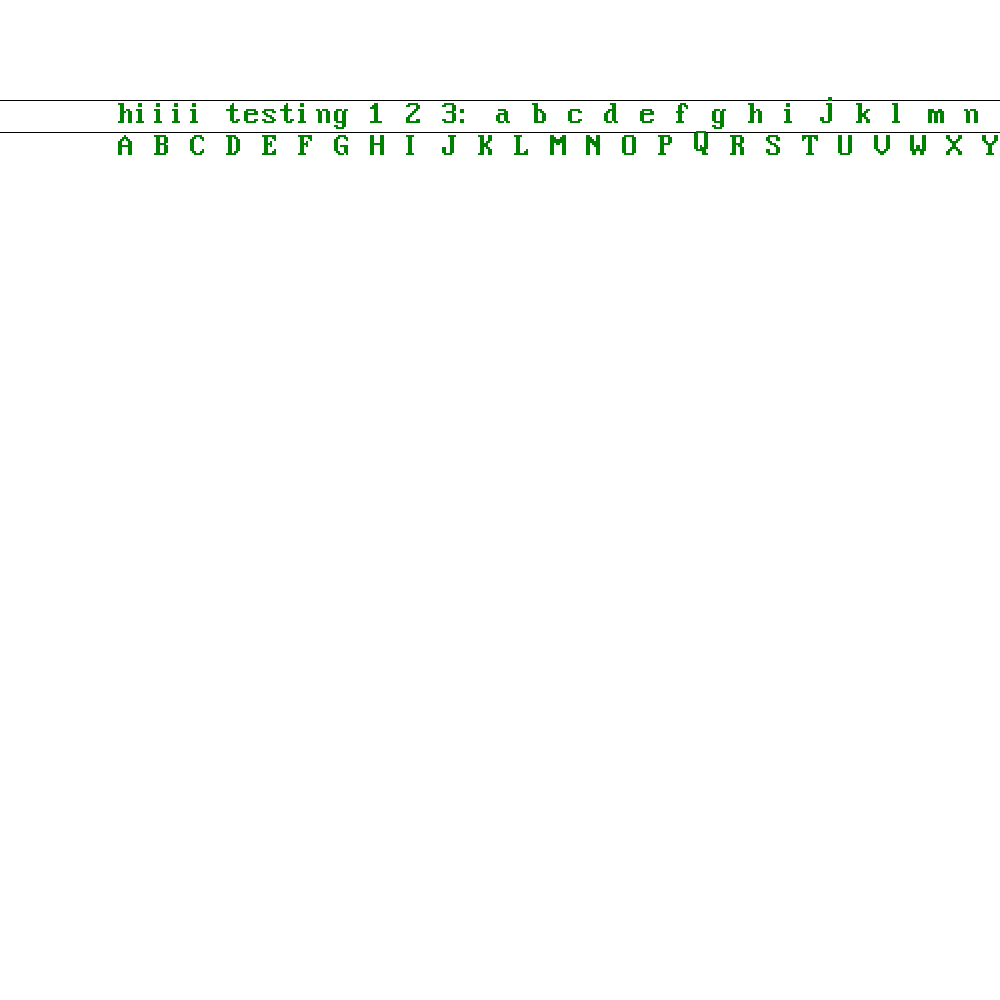
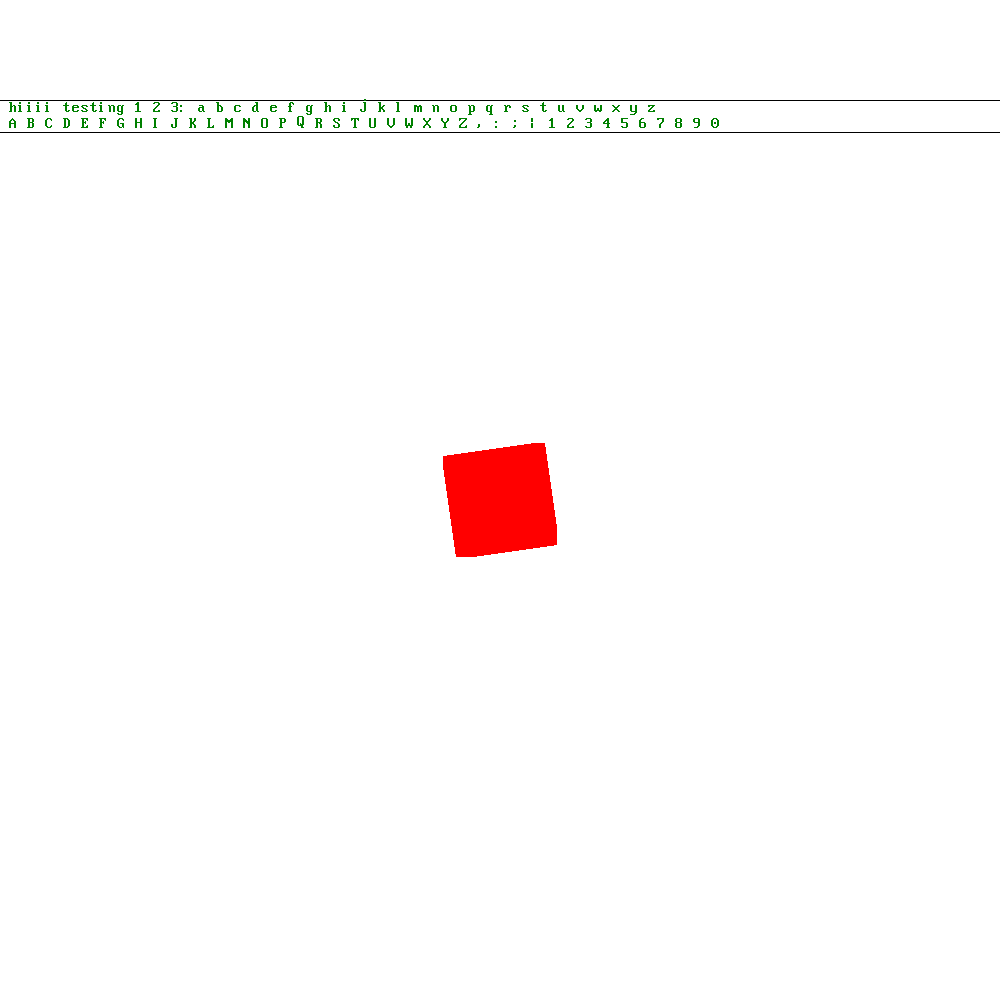
g

diff --git a/src/utils.rs b/src/utils.rs
@@ -465,7 +465,19 @@ impl Boundary {
         }
         for y in min_y..=max_y {
             for x in min_x..=max_x {
-                if self.check_collision_point(x, y) {
+                let mut hit = false;
+                'lp: for dy in -2..=2i32 {
+                    for dx in -2..=2i32 {
+                        if dx.abs() > 1 && dy.abs() > 1 {
+                            continue;
+                        }
+                        if self.check_collision_point(x + dx, y + dy) {
+                            hit = true;
+                            break 'lp;
+                        }
+                    }
+                }
+                if hit {
                     image.draw_pixel(x, y, color)
                 }
             }
@@ -548,5 +560,51 @@ pub trait DrawCPUText {
 impl DrawCPUText for raylib::prelude::Image {
     fn draw_text_cpu(&mut self, text: &str, x: i32, y: i32, height: i32, color: Color) {
         draw_text_to_image(self, text, x, y, height, color);
+    }
+}
+
+//https://stackoverflow.com/questions/2824478/shortest-distance-between-two-line-segments
+pub fn distance_between_line_segments(
+    start1: Vector2,
+    end1: Vector2,
+    start2: Vector2,
+    end2: Vector2,
+) {
+    use raylib::prelude::Vector3;
+    let a0 = Vector3::new(start1.x, start1.y, 0.0);
+    let b0 = Vector3::new(start2.x, start2.y, 0.0);
+    let a1 = Vector3::new(end1.x, end1.y, 0.0);
+    let b1 = Vector3::new(end2.x, end2.y, 0.0);
+    let a = a1 - a0;
+    let b = b1 - b0;
+    let mag_a = a.length();
+    let mag_b = b.length();
+    let _a = a / mag_a;
+    let _b = b / mag_b;
+    let cross = _a.cross(_b);
+    let denom = {
+        let l = cross.length();
+        l * l
+    };
+    if denom.abs() < 0.01 {
+        let d0 = _a.dot(b0 - a0);
+        let d1 = _a.dot(b1 - a0);
+        if d0 <= 0. && 0. >= d1 {
+            if d0.abs() < d1.abs() {
+                //  return (a0 - b0).length();
+            } else {
+                // return (a0 - b1).length();
+            }
+        } else if d0 >= mag_a && d1 <= mag_a {
+            if d0.abs() < d1.abs() {
+                //return (a1-b0).length();
+            } else {
+                //return (a1-b1).length();
+            }
+        } else {
+            //   return ((_a * d0) + a0 - b0).length();
+        }
+    } else {
+        //     t = (b0 - a0);
     }
 }

diff --git a/src/main.rs b/src/main.rs
@@ -1,17 +1,29 @@
 pub mod utils;
+use std::f32::consts::PI;
+
 pub use raylib::prelude::*;
 
 use crate::utils::DrawCPUText;
 pub fn main() {
-    let mut img = Image::gen_image_color(1000, 1000, Color::WHITE);
-    img.draw_line(0, 100, 1000, 100, Color::BLACK);
-    img.draw_line(0, 132, 1000, 132, Color::BLACK);
-    img.draw_text_cpu(
+    for i in 0..=614 {
+        let mut img = Image::gen_image_color(1000, 1000, Color::WHITE);
+        img.draw_line(0, 100, 1000, 100, Color::BLACK);
+        img.draw_line(0, 132, 1000, 132, Color::BLACK);
+        img.draw_text_cpu(
         "hiiii testing 1 2 3: a b c d e f g h i j k l m n o p q r s t u v w x y z\nA B C D E F G H I J K L M N O P Q R S T U V W X Y Z , : ; | 1 2 3 4 5 6 7 8 9 0",
+        0,
         100,
-        100,
-        32,
+        16,
         Color::GREEN,
     );
-    img.export_image("test2.png");
+        let b = utils::Boundary {
+            center_x: 500,
+            center_y: 500,
+            width: 100,
+            height: 100,
+            rotation: (i as f32 / 100.),
+        };
+        b.draw_to_image(&mut img, Color::RED);
+        img.export_image("test2.png");
+    }
 }
